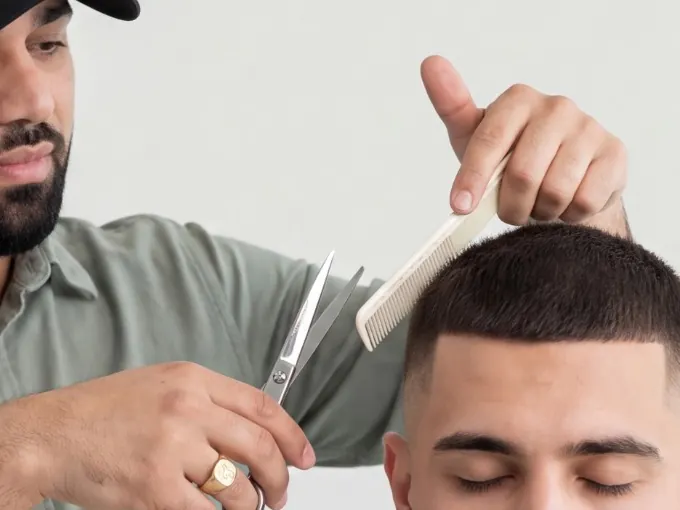
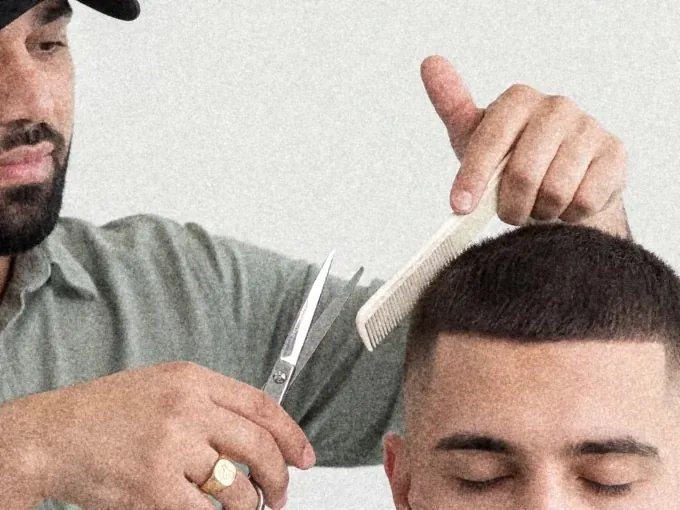
Filmkorn auf allen Fotos
- Hero: feine, dezente Körnung (Variante A)
- Team-Porträts, Galerie und Menü-Fotos: Film-Look ISO 800 mit leicht
  farbigem Korn, etwas angehobenem Schwarz und leicht entsättigt (Variante B)
- Unbearbeitete Originale in design/original/, scripts/grain.py wendet den
  Effekt reproduzierbar an; Vorschaubild und README aktualisiert

Claude-Session: https://claude.ai/code/session_01KBHsCnWNXAB2Le3gAEsivF

diff --git a/scripts/grain.py b/scripts/grain.py
@@ -1,0 +1,70 @@
+"""Filmkorn auf die Website-Fotos rechnen.
+
+Liest die unbearbeiteten Bilder aus design/original/ und schreibt die gekörnten Versionen
+nach src/assets/. Hero: Variante A (fein), alle anderen Fotos: Variante B (Film, ISO 800).
+
+    pip install numpy pillow
+    python3 scripts/grain.py
+"""
+from pathlib import Path
+
+import numpy as np
+from PIL import Image, ImageFilter
+
+ROOT = Path(__file__).resolve().parent.parent
+SRC = ROOT / 'design' / 'original'
+DST = ROOT / 'src' / 'assets'
+
+VARIANTS = {
+    # fein & dezent
+    'A': dict(amount=0.016, size=1.2),
+    # Film, ISO 800: sichtbares, leicht farbiges Korn, etwas angehobenes Schwarz, leicht entsättigt
+    'B': dict(amount=0.028, size=1.5, color=0.15, lift=0.03, contrast=1.05, sat=0.92),
+}
+
+HERO = {'photos/hero.webp', 'photos/hero-1000.webp', 'photos/hero-mobile.webp'}
+LUMA = np.array([0.2126, 0.7152, 0.0722], np.float32)
+
+
+def noise(rng, h, w, size, color):
+    """Gauß-Rauschen, auf Korngröße weichgezeichnet und wieder auf Standardabweichung 1 normiert."""
+    def one():
+        n = rng.normal(0, 1, (h, w)).astype(np.float32)
+        if size > 1:
+            im = Image.fromarray((n * 40 + 128).clip(0, 255).astype(np.uint8))
+            n = (np.asarray(im.filter(ImageFilter.GaussianBlur(size * 0.5)), np.float32) - 128) / 40
+            n /= n.std() + 1e-6
+        return n
+
+    mono = one()
+    if not color:
+        return np.stack([mono] * 3, -1)
+    return np.stack([mono + color * one() for _ in range(3)], -1)
+
+
+def grain(img, rng, amount, size, color=0.0, lift=0.0, contrast=1.0, sat=1.0):
+    a = np.asarray(img.convert('RGB'), np.float32) / 255
+    h, w, _ = a.shape
+    a = (a - 0.5) * contrast + 0.5
+    lum = a @ LUMA
+    a = lum[..., None] + (a - lum[..., None]) * sat
+    a = lift + a * (1 - lift)
+    # Korn vor allem in den Mitteltönen, wie bei Film
+    lum = np.clip(a @ LUMA, 0, 1)
+    weight = 4 * lum * (1 - lum) + 0.35
+    a = a + noise(rng, h, w, size, color) * amount * weight[..., None]
+    return Image.fromarray((np.clip(a, 0, 1) * 255).astype(np.uint8))
+
+
+def main():
+    for i, src in enumerate(sorted(SRC.rglob('*.webp'))):
+        rel = src.relative_to(SRC).as_posix()
+        variant = 'A' if rel in HERO else 'B'
+        out = grain(Image.open(src), np.random.default_rng(i + 1), **VARIANTS[variant])
+        dst = DST / rel
+        out.save(dst, 'WEBP', quality=82, method=6)
+        print(f'{variant}  {rel:28} {src.stat().st_size // 1024:4} KB -> {dst.stat().st_size // 1024:4} KB')
+
+
+if __name__ == '__main__':
+    main()

diff --git a/README.md b/README.md
@@ -57,6 +57,11 @@ Preis-Thumbnails). Neue Porträts im selben Format ablegen und in `src/data/salo
 laufen beim Scrollen seitlich durch, auf dem Handy wird gewischt. Neues Bild: als WebP (900 px breit) in
 `src/assets/gallery/` ablegen und in `moments` in `Gallery.tsx` eintragen (Titel + Seitenverhältnis).
 
+**Körnung:** Alle Fotos haben einen Filmkorn-Look – Hero fein (Variante A), alle übrigen Fotos wie Film
+ISO 800 (Variante B). Die unbearbeiteten Originale liegen in `design/original/`. Neue oder geänderte Fotos
+dort ablegen (gleicher Pfad wie in `src/assets/`) und `python3 scripts/grain.py` ausführen – das Skript
+schreibt die gekörnten Versionen nach `src/assets/`.
+
 **Direktbuchung:** Jede Leistung trägt ihre Setmore-ID (`id`). Wird bei Setmore eine Leistung
 neu angelegt, bekommt sie eine neue ID. Sie steht im Buchungslink der Leistung auf der
 Setmore-Seite hinter `products=`.
